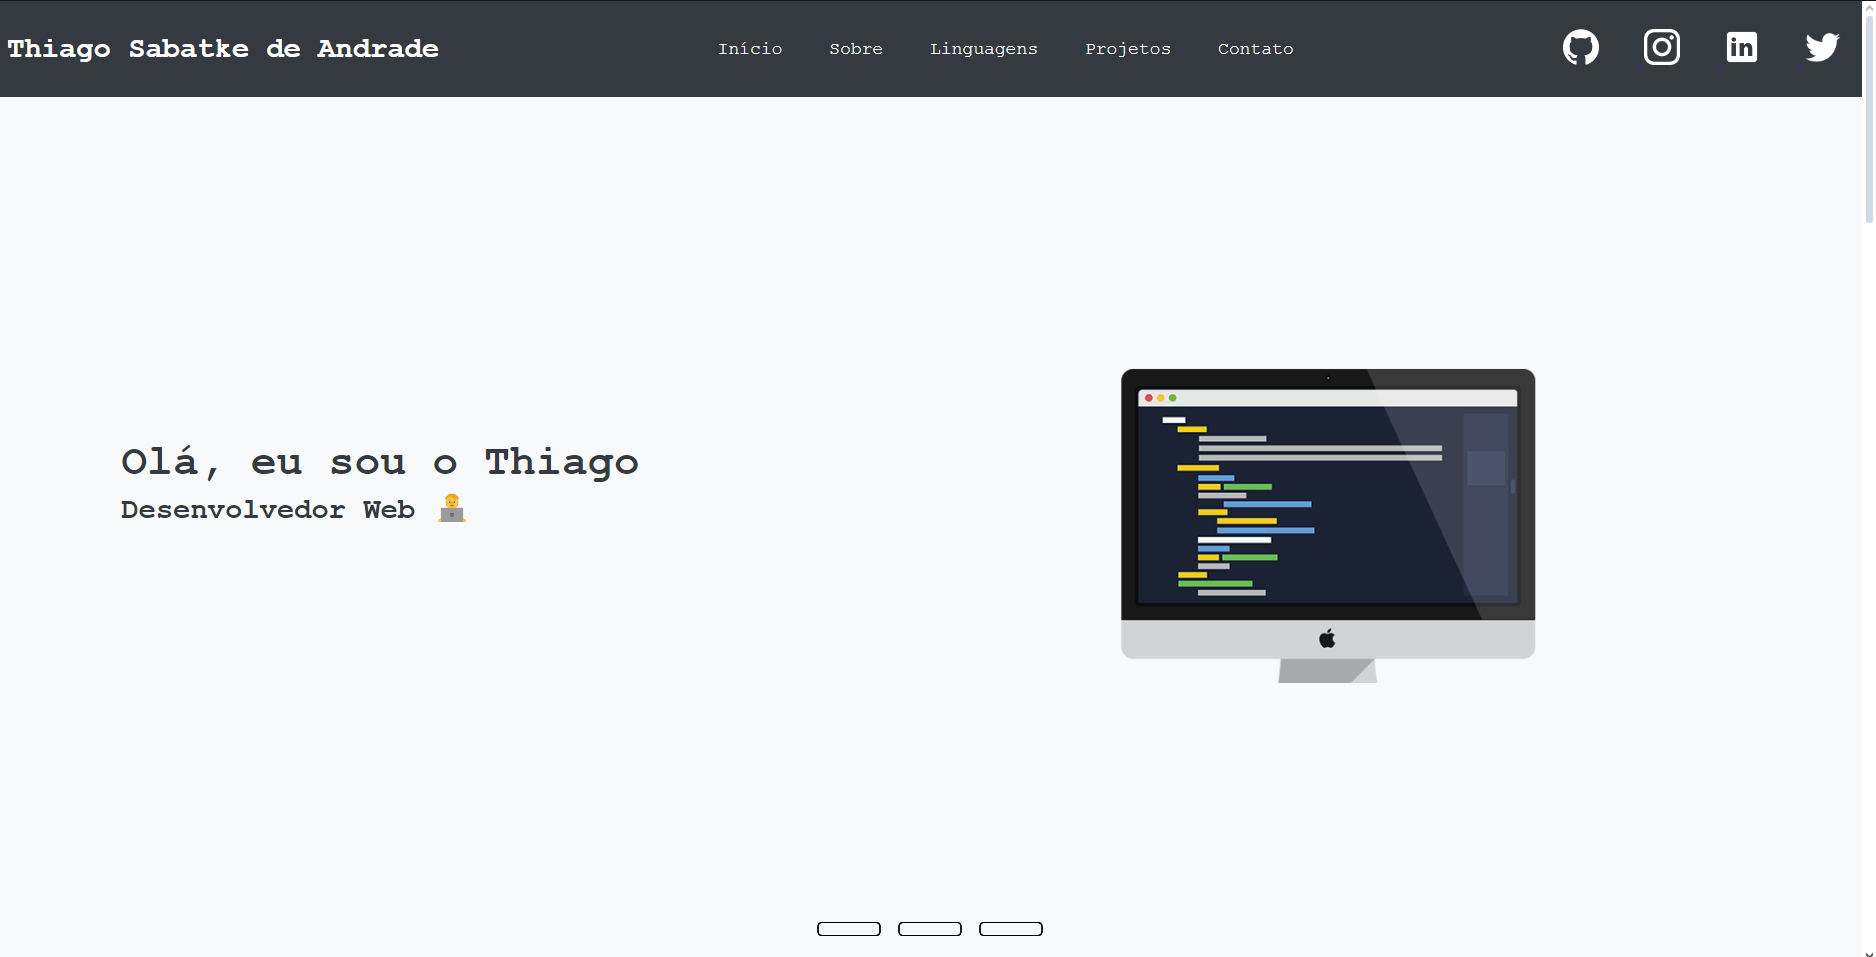
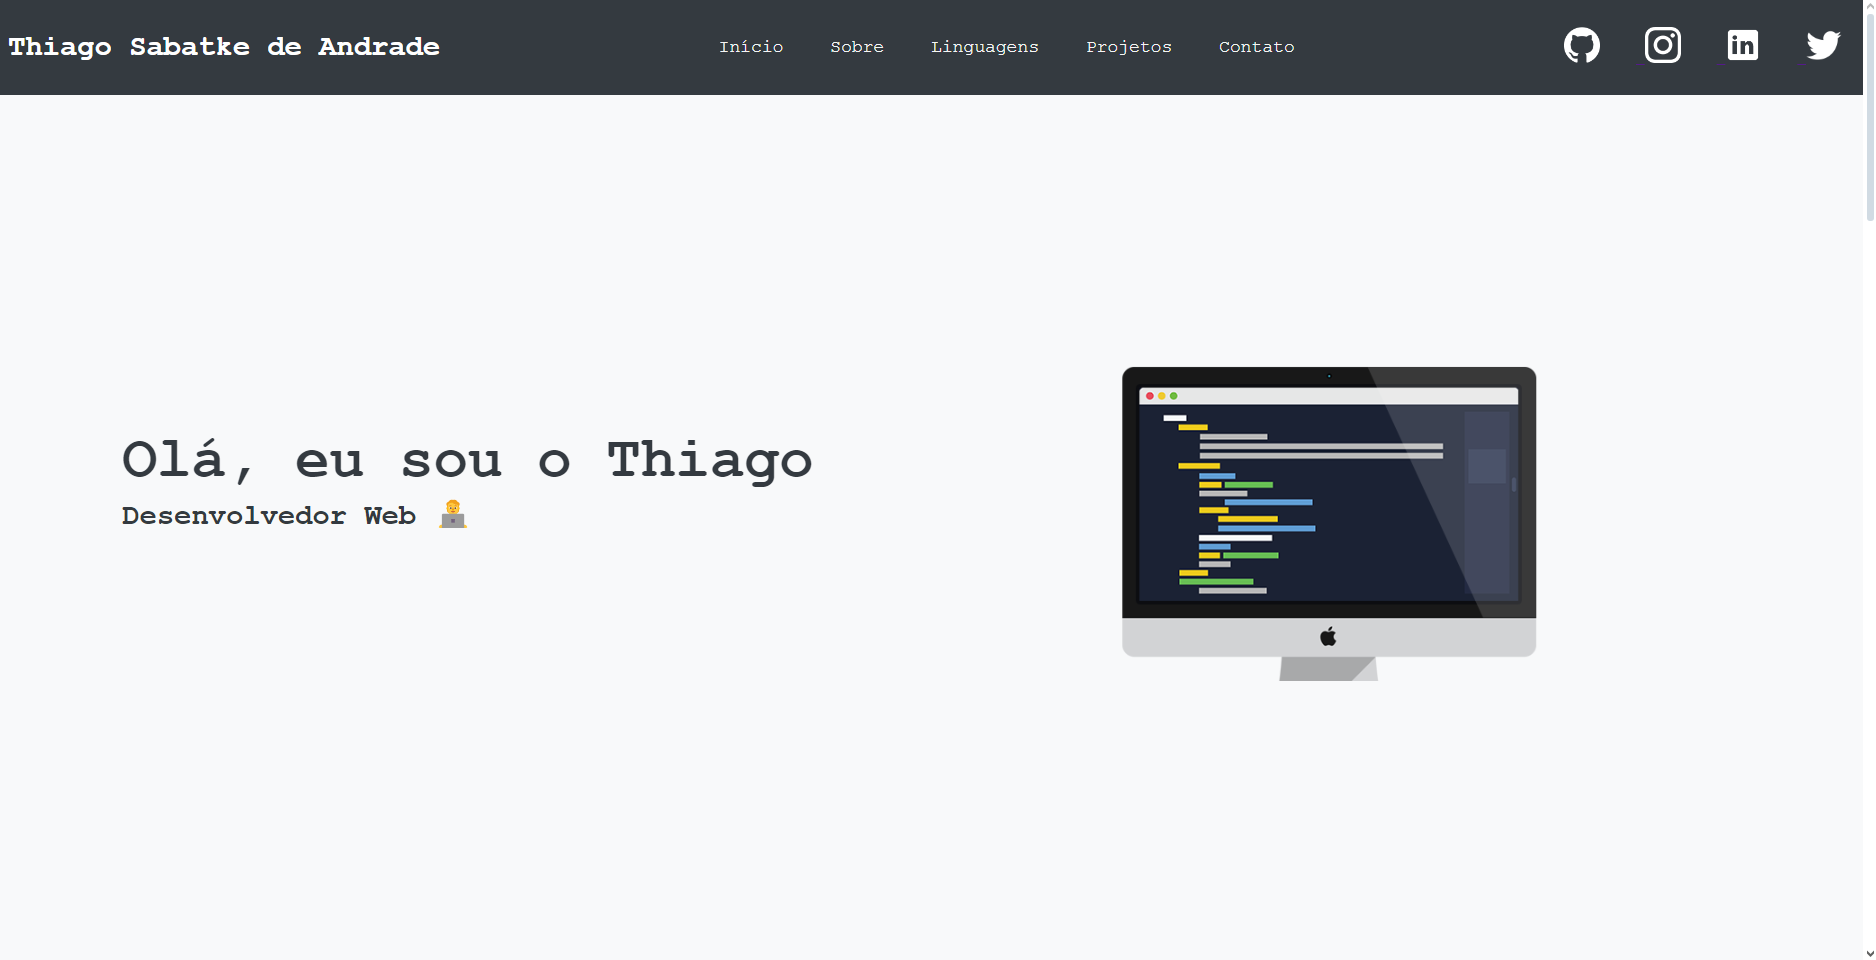
projeto pessoal atualizado

diff --git a/assets/css/style.css b/assets/css/style.css
@@ -15,6 +15,17 @@ header {
     position: relative;
 }
 
+h1 {
+    font-size: 4rem;
+    color: #343a40;
+}
+
+h2 {
+    font-size: 2rem;
+    text-align: center;
+    color: #343a40;
+}
+
 .cabecalho {
     height: 10vh;
     display: flex;
@@ -40,7 +51,7 @@ header {
 
 .cabecalho_link a:hover {
     background-color: #6c757d;
-    font-size: 2rem;
+    font-size: 1.4rem;
     border-radius: 15px;
 }
 
@@ -96,12 +107,6 @@ header {
     padding: 10vh;
 }
 
-#sobre h1 {
-    font-size: 4rem;
-    text-align: center;
-    color: #343a40;
-}
-
 .bloco_sobre {
     display: flex;
     align-items: center;
@@ -142,11 +147,6 @@ header {
     flex-direction: column;
     padding: 10vh;
     box-shadow: 8px 0 16px rgba(0, 0, 0, 0.24);
-}
-
-#linguagens h1 {
-    font-size: 4rem;
-    text-align: center;
 }
 
 .bloco_linguagens {
@@ -193,11 +193,6 @@ header {
     justify-content: center;
     align-items: center;
     padding: 10vh;
-}
-
-#Projetos h1 {
-    font-size: 4rem; 
-    text-align: center; 
 }
 
 .projeto_conteudo {
@@ -262,6 +257,20 @@ input[type="radio"] {
     margin-left: -66%;
 }
 
+#Projetos p {
+    font-size: 1.5rem;
+}
+
+#Projetos a {
+    text-decoration: none;
+    color: #343a40;
+}
+
+#Projetos a:hover {
+    text-decoration: underline;
+    color: rgb(80, 84, 88);
+}
+
 
 #contato {
     background-color: #f8f9fa;
@@ -271,10 +280,8 @@ input[type="radio"] {
 }
 
 #contato h1 {
-    font-size: 4rem;
-    text-align: center;
     margin-bottom: 30px;
-    color: #343a40;
+    text-align: center;
 }
 
 form {

diff --git a/index.html b/index.html
@@ -95,7 +95,7 @@
                 <input type="radio" name="slide" id="slide2">
                 <input type="radio" name="slide" id="slide3">
                 <div class="slide slide_principal">
-                    <img class="imagem_projeto" src="assets/imagem/projeto-pessoal 1.png" alt="projeto pessoal">
+                    <img class="imagem_projeto" src="assets/imagem/pessoal-inicio.png" alt="projeto pessoal">
                 </div>
                 <div class="slide">
                     <img class="imagem_projeto" src="assets/imagem/lista_tarefas.png" alt="projeto lista de tarefas">
@@ -105,11 +105,18 @@
                 </div>
             </div>
             <div class="navegacao">
-                <label class="barra" for="slide1"></label>
-                <label class="barra" for="slide2"></label>
-                <label class="barra" for="slide3"></label>
+                <label class="barra" for="slide1" onclick="mudarProjeto1()"></label>
+                <label class="barra" for="slide2" onclick="mudarProjeto2()"></label>
+                <label class="barra" for="slide3" onclick="mudarProjeto3()"></label>
             </div>
         </div> 
+        <h2 id="nome_do_projeto">Projeto pessoal</h2>
+        <p>
+            Link para acessar o projeto:
+            <a id="link_do_projeto" target="_blank" href="https://github.com/thiagosabatke/projeto-pessoal">
+                github
+            </a>
+        </p>
     </section>
     <section id="contato">
         <h1>Fale Comigo</h1>

diff --git a/assets/js/app.js b/assets/js/app.js
@@ -10,3 +10,24 @@ function EnviarMensagem(){
         alert(`${nome}, sua mensagem foi enviada com sucesso!`)
     }
 }
+
+function mudarProjeto1(){
+    document.getElementById('nome_do_projeto').textContent = 'Projeto Pessoal';
+    let link_projeto = document.getElementById('link_do_projeto');
+    link_projeto.href = 'https://github.com/thiagosabatke/projeto-pessoal'
+    link_projeto.textContent = 'github';
+}
+
+function mudarProjeto2(){
+    document.getElementById('nome_do_projeto').textContent = 'Projeto ToDo-List'
+    let link_projeto = document.getElementById('link_do_projeto');
+    link_projeto.href = 'https://github.com/thiagosabatke/ToDo-List-JS'
+    link_projeto.textContent = 'github';
+}
+
+function mudarProjeto3(){
+    document.getElementById('nome_do_projeto').textContent = 'Projeto Gestão de Notas'
+    let link_projeto = document.getElementById('link_do_projeto');
+    link_projeto.href = 'https://github.com/thiagosabatke/Gestao-de-Notas-JS'
+    link_projeto.textContent = 'github';
+}
